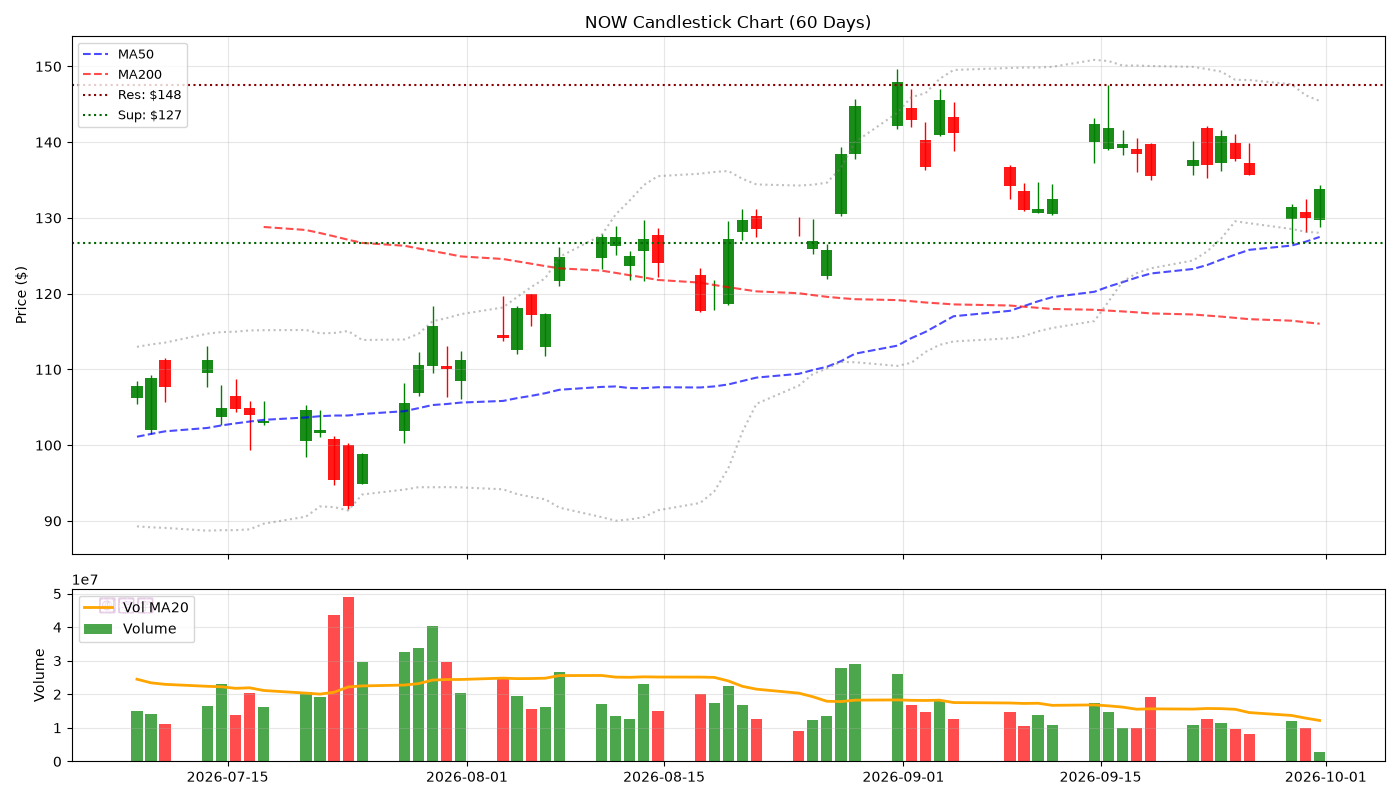
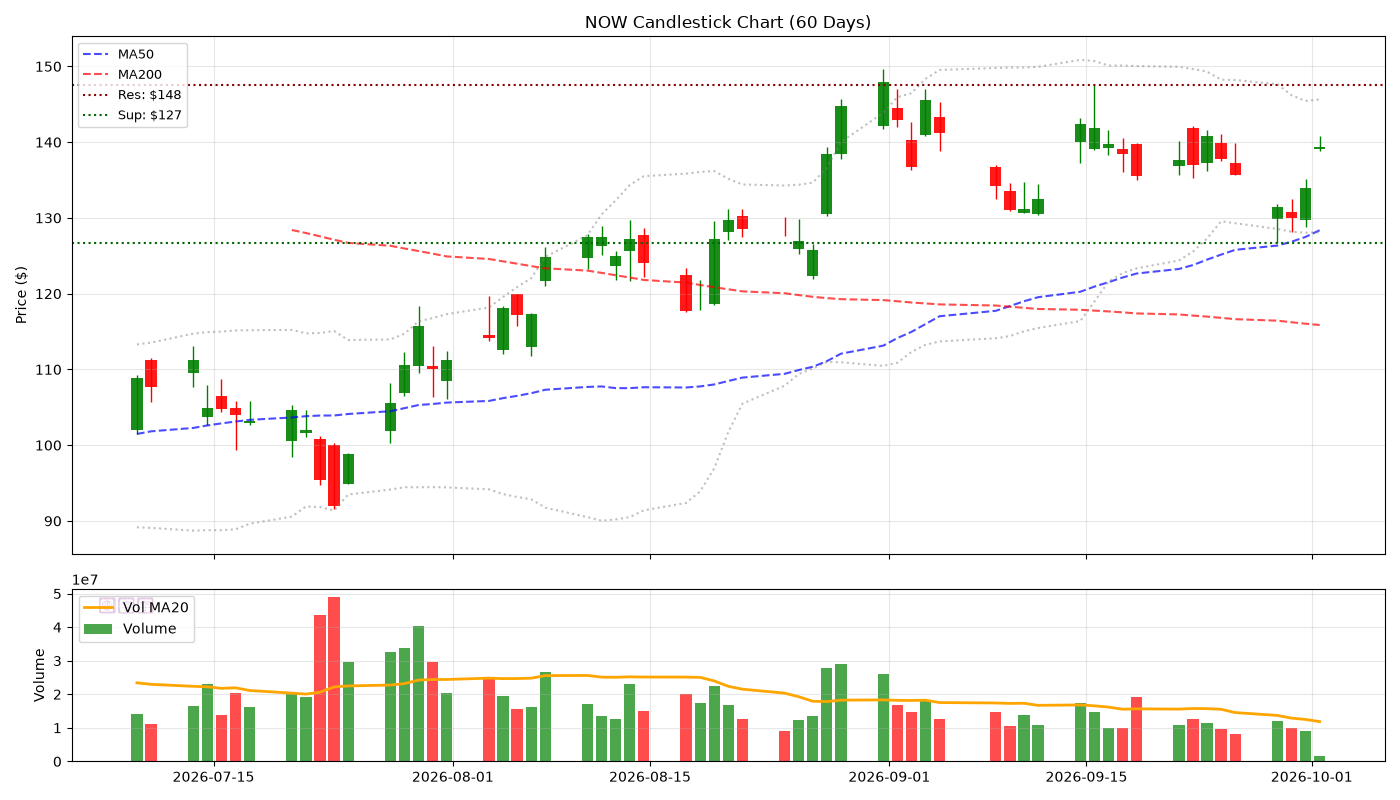
feat(v5): 2026-10-01 Candlestick

diff --git a/reports/2026-10-01.md b/reports/2026-10-01.md
@@ -1,0 +1,85 @@
+# 🕯 Hermes V5 陰陽燭專業日報 - 2026-10-01
+> **生成時間**: 2026-10-01 21:45:42 | **圖表**: 正宗陰陽燭 + Volume
+
+---
+
+## 📊 核心數據
+
+| 股票 | 價格 | 漲跌% | RSI | 成交量 | 阻力 | 支撐 |
+|------|------|-------|-----|--------|------|------|
+| SNDK | $1748.97 | +0.52% | 57.3 | 💤 | $1750 | $1700 |
+| MU | $1049.67 | -1.45% | 61.8 | 💤 | $1050 | $1000 |
+| SOXL | $148.51 | +0.44% | 63.6 | 💤 | $150 | $100 |
+| TSLA | $357.10 | +0.64% | 43.8 | 💤 | $387 | $350 |
+| APP | $286.19 | -1.46% | 31.6 | 💤 | $300 | $283 |
+| NOW | $139.34 | +3.98% | 57.8 | 💤 | $148 | $127 |
+| CAT | $807.81 | -0.37% | 45.9 | 💤 | $832 | $800 |
+| AMAT | $528.35 | +3.32% | 73.1 | 💤 | $531 | $500 |
+| NOK | $10.07 | -0.71% | 37.1 | 💤 | $11 | $10 |
+| ALAB | $353.40 | -0.72% | 67.2 | 💤 | $378 | $350 |
+
+---
+
+## 📈 個股陰陽燭分析
+
+### SNDK ($1748.97, +0.52%)
+![Candlestick](../charts/SNDK.png)
+
+- **RSI**: 57.3 | **Vol**: LOW
+- **關鍵位**: 阻力 $1750.00 | 支撐 $1700.00
+
+### MU ($1049.67, -1.45%)
+![Candlestick](../charts/MU.png)
+
+- **RSI**: 61.8 | **Vol**: LOW
+- **關鍵位**: 阻力 $1050.00 | 支撐 $1000.00
+
+### SOXL ($148.51, +0.44%)
+![Candlestick](../charts/SOXL.png)
+
+- **RSI**: 63.6 | **Vol**: LOW
+- **關鍵位**: 阻力 $150.00 | 支撐 $100.00
+
+### TSLA ($357.10, +0.64%)
+![Candlestick](../charts/TSLA.png)
+
+- **RSI**: 43.8 | **Vol**: LOW
+- **關鍵位**: 阻力 $386.83 | 支撐 $350.00
+
+### APP ($286.19, -1.46%)
+![Candlestick](../charts/APP.png)
+
+- **RSI**: 31.6 | **Vol**: LOW
+- **關鍵位**: 阻力 $300.00 | 支撐 $283.10
+
+### NOW ($139.34, +3.98%)
+![Candlestick](../charts/NOW.png)
+
+- **RSI**: 57.8 | **Vol**: LOW
+- **關鍵位**: 阻力 $147.57 | 支撐 $126.75
+
+### CAT ($807.81, -0.37%)
+![Candlestick](../charts/CAT.png)
+
+- **RSI**: 45.9 | **Vol**: LOW
+- **關鍵位**: 阻力 $831.95 | 支撐 $800.00
+
+### AMAT ($528.35, +3.32%)
+![Candlestick](../charts/AMAT.png)
+
+- **RSI**: 73.1 | **Vol**: LOW
+- **關鍵位**: 阻力 $530.94 | 支撐 $500.00
+
+### NOK ($10.07, -0.71%)
+![Candlestick](../charts/NOK.png)
+
+- **RSI**: 37.1 | **Vol**: LOW
+- **關鍵位**: 阻力 $11.17 | 支撐 $9.54
+
+### ALAB ($353.40, -0.72%)
+![Candlestick](../charts/ALAB.png)
+
+- **RSI**: 67.2 | **Vol**: LOW
+- **關鍵位**: 阻力 $377.87 | 支撐 $350.00
+
+*Generated by Hermes Agent V5 (Candlestick Pro)*

diff --git a/index.md b/index.md
@@ -1,12 +1,12 @@
 # 🌍 Hermes V5 陰陽燭情報中心
-> **更新**: 2026-09-30 23:01:20
+> **更新**: 2026-10-01 21:45:42
 
 | 股票 | 價格 | 漲跌% | RSI | Vol |
 |------|------|-------|-----|-----|
-| SNDK | $1738.87 | +0.53% | 52.8 | 💤 |
-| MU | $1075.97 | +1.02% | 65.8 | 💤 |
-| SOXL | $146.17 | -0.56% | 64.7 | 💤 |
-| TSLA | $349.00 | -1.09% | 39.5 | 💤 |
-| APP | $299.11 | -2.14% | 42.2 | 💤 |
+| SNDK | $1748.97 | +0.52% | 57.3 | 💤 |
+| MU | $1049.67 | -1.45% | 61.8 | 💤 |
+| SOXL | $148.51 | +0.44% | 63.6 | 💤 |
+| TSLA | $357.10 | +0.64% | 43.8 | 💤 |
+| APP | $286.19 | -1.46% | 31.6 | 💤 |
 
-📖 [查看完整陰陽燭報告](reports/2026-09-30.md)
+📖 [查看完整陰陽燭報告](reports/2026-10-01.md)
